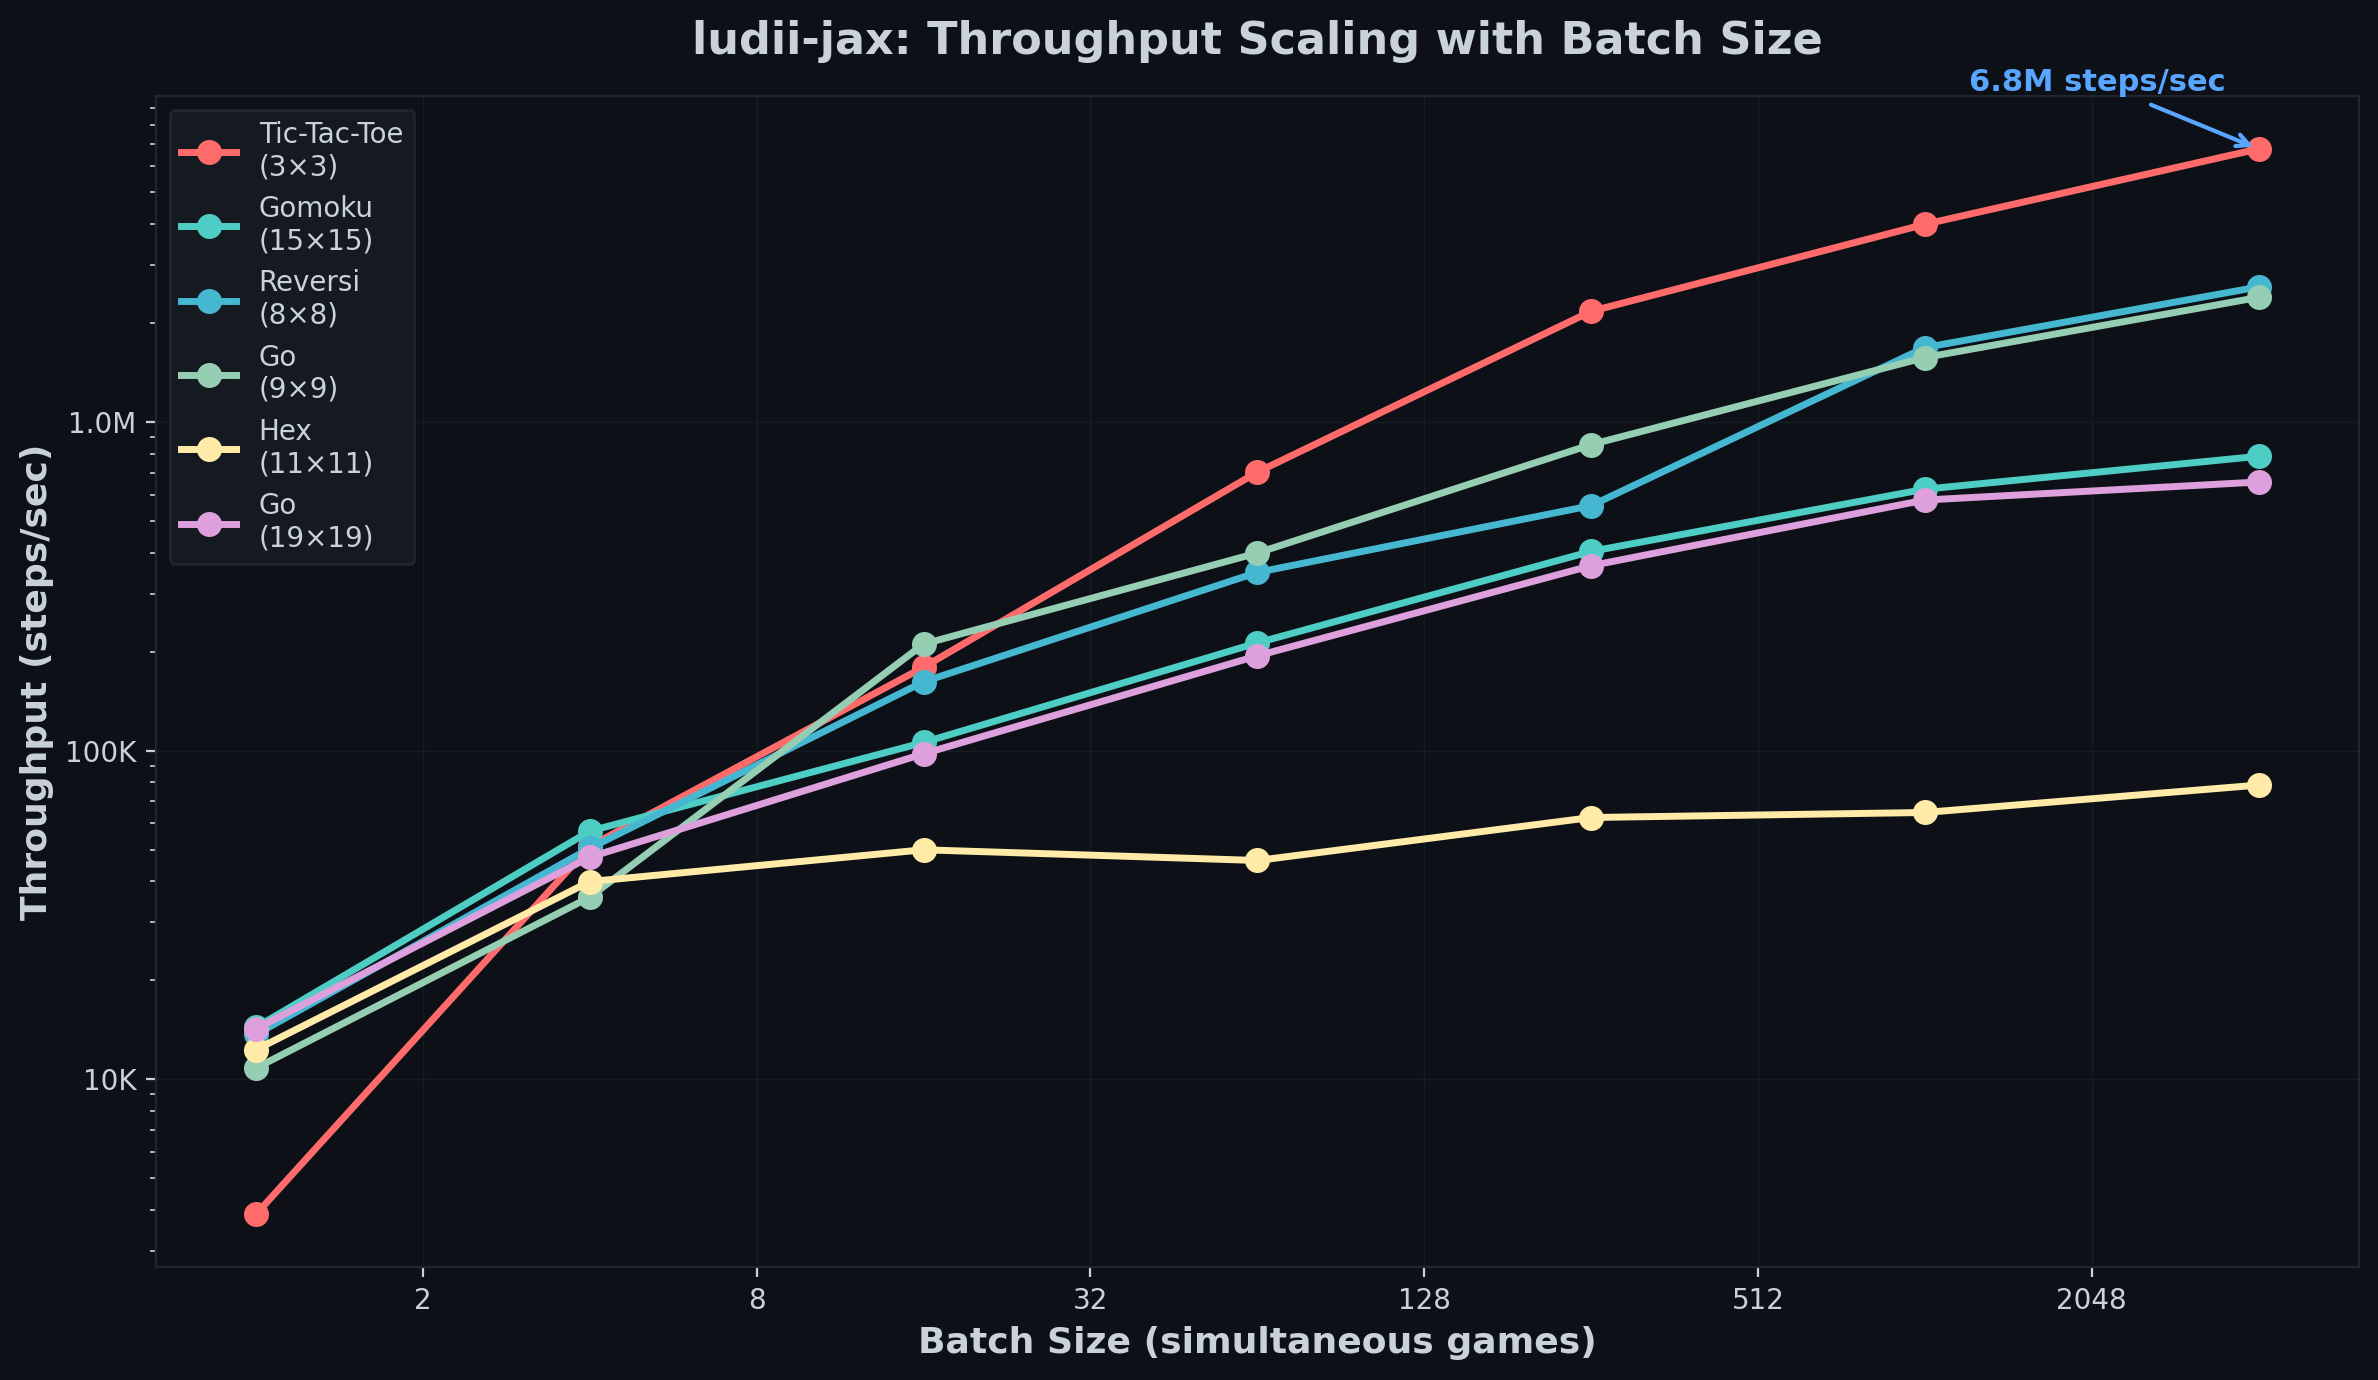
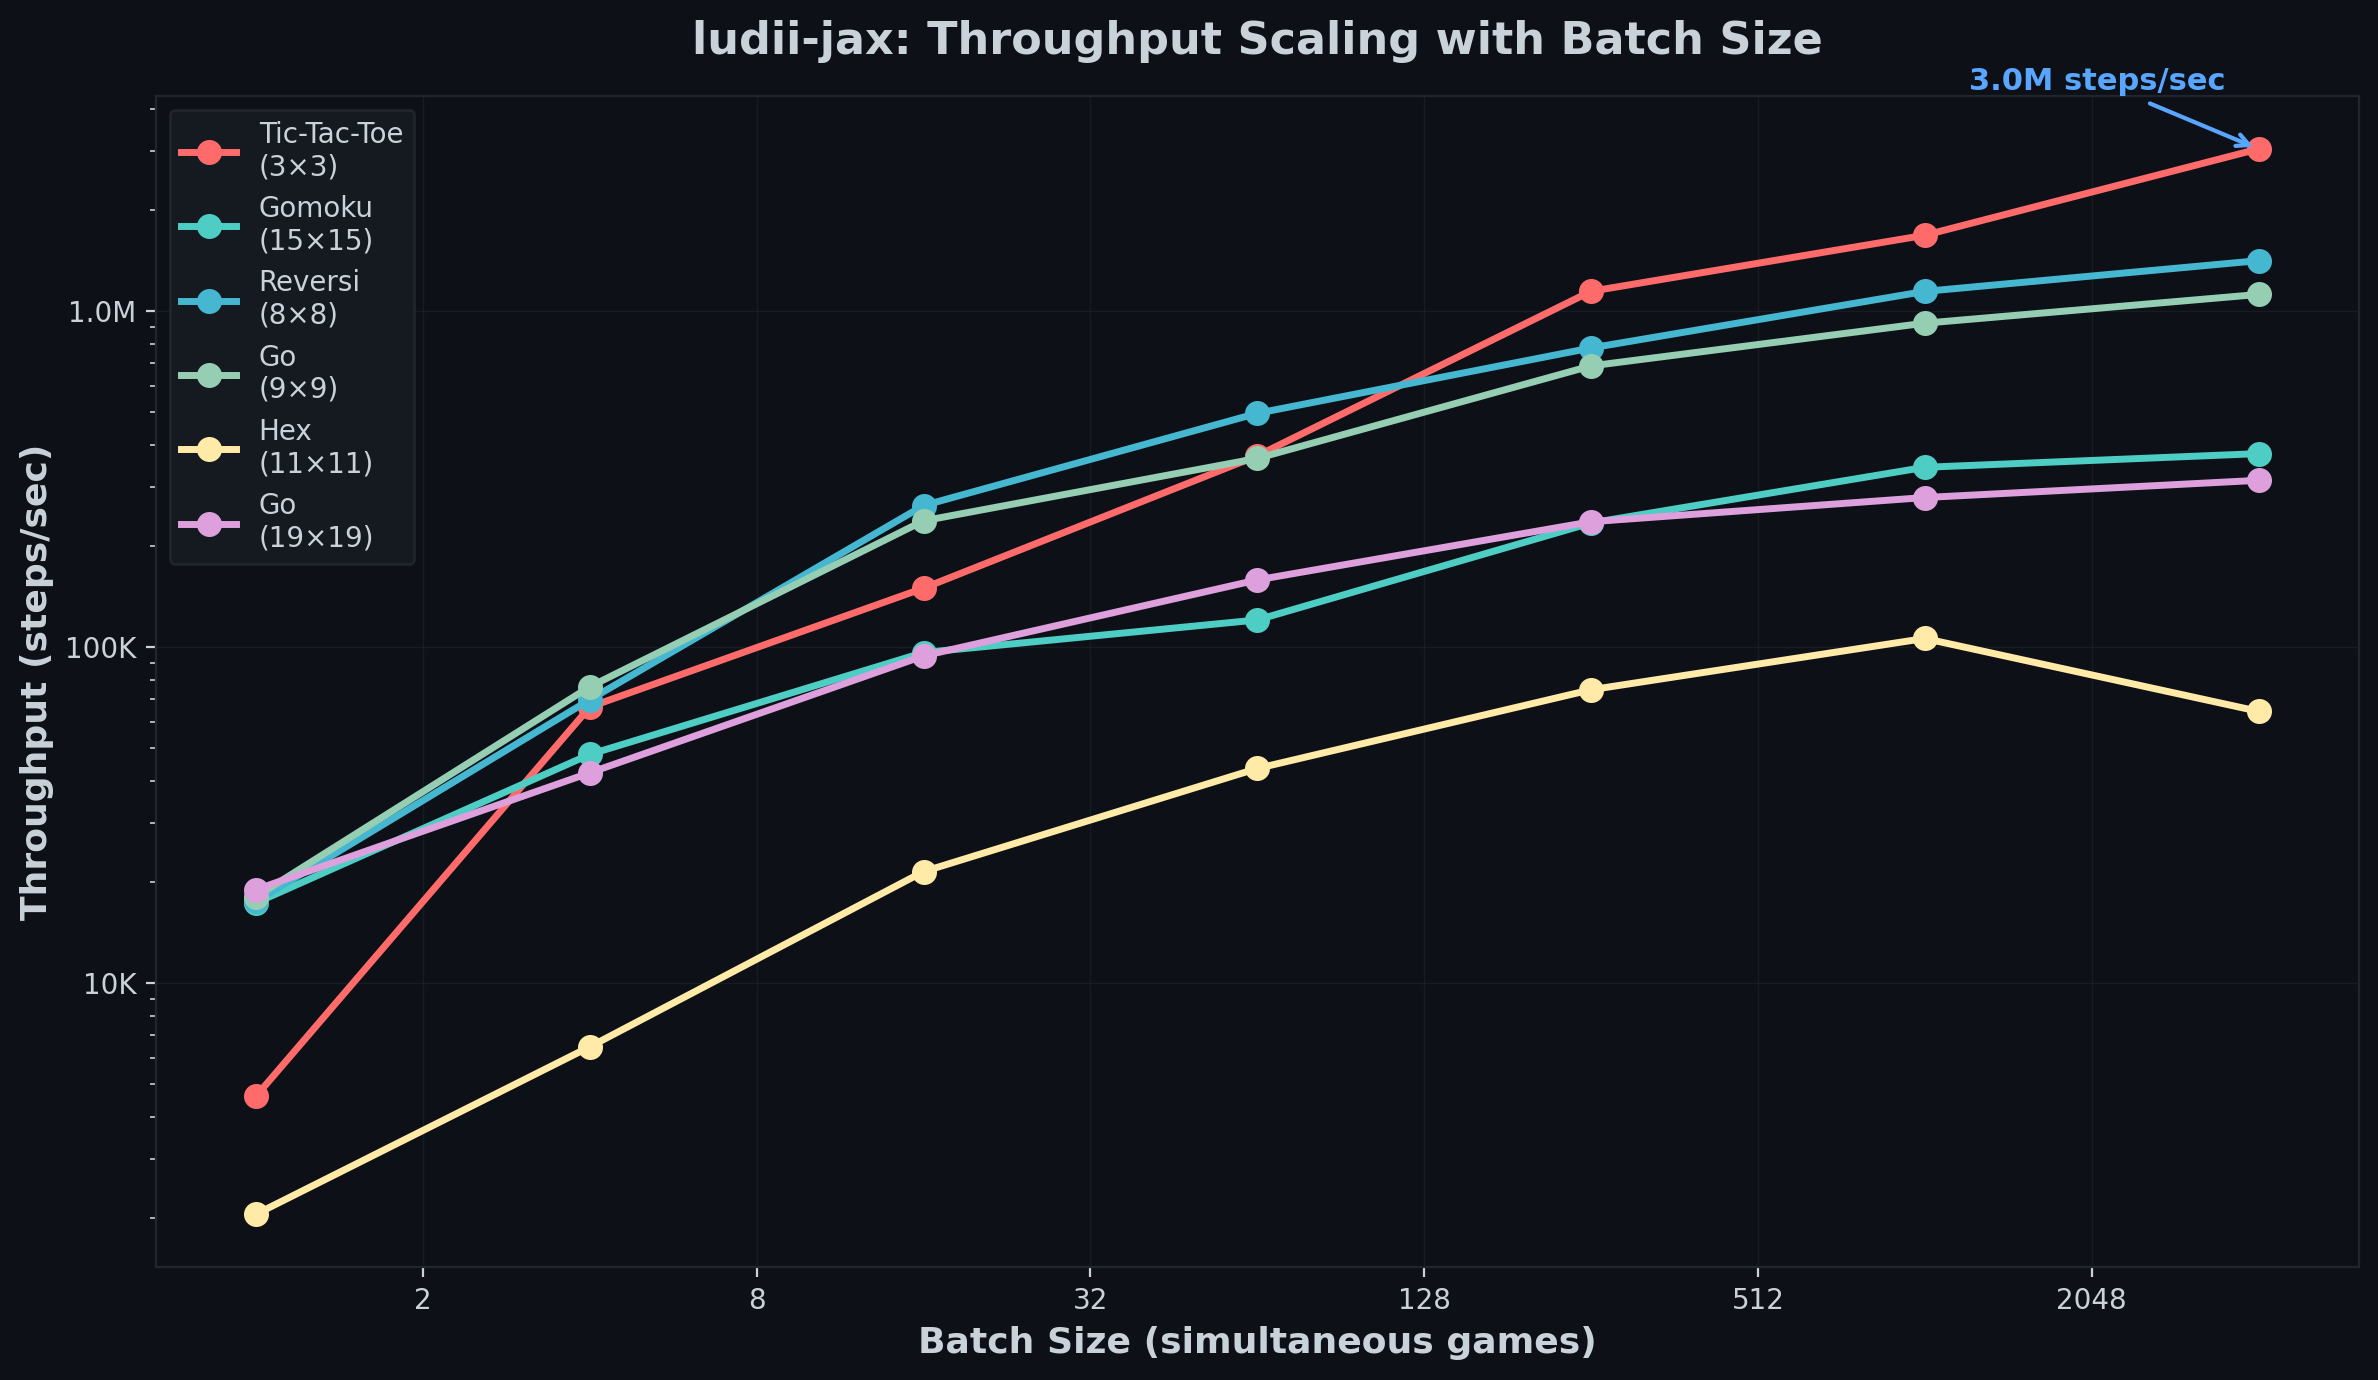
Metal GPU compatibility: branchless step, int32 indices, bool reduce fix
- Replace jax.lax.cond with branchless _select_state (jax.tree.map +
  jnp.where). Metal XLA cannot serialize lax.cond control flow.
- Cast all int8 indices to int32 for Metal strided_slice compatibility.
- Replace .all(axis=0) on bool arrays with .min(axis=0) on int8.
  Metal's mhlo.reduce doesn't support bool reduction.
- Add INDEX_DTYPE and idx() helper in state.py.
- EMPTY changed from jnp scalar to plain int (avoids Metal init crash).

Tested: ludii-jax now runs on Apple Metal GPU (jax-metal 0.1.1 + JAX 0.4.35).
Metal throughput: ~170K steps/sec at batch 4096 for Tic-Tac-Toe.
CPU remains faster for this int8-heavy workload (~3M steps/sec).

Updated README benchmarks with fresh M4 numbers and Metal compatibility note.

diff --git a/src/ludii_jax/compiler/moves.py b/src/ludii_jax/compiler/moves.py
@@ -17,7 +17,8 @@ from ..runtime.state import BOARD_DTYPE, ACTION_DTYPE, EMPTY
 
 def _update_actions(state, dst, num_players):
     """Update previous_actions with the destination cell. Used by all apply_fns."""
-    return state.previous_actions.at[state.current_player].set(
+    cp = state.current_player.astype(jnp.int32)
+    return state.previous_actions.at[cp].set(
         ACTION_DTYPE(dst)).at[num_players].set(ACTION_DTYPE(dst))
 
 
@@ -70,14 +71,14 @@ def compile_step(topology, slide_lookup, piece_idx, num_players, distance=1,
         dests = slide_lookup[:, :, distance]  # (max_nb, n)
         on_board = dests < n
         if to_empty:
-            dest_ok = (state.board == EMPTY).all(axis=0)[dests.clip(0, n - 1)]
+            dest_ok = ((state.board == EMPTY).astype(BOARD_DTYPE)).min(axis=0).astype(jnp.bool_)[dests.clip(0, n - 1)]
         else:
             friendly = (state.board == state.current_player).any(axis=0)
             dest_ok = ~friendly[dests.clip(0, n - 1)]
         valid = owned[jnp.newaxis, :] & dest_ok & on_board
 
         if per_player:
-            dm = dir_masks[state.current_player]
+            dm = dir_masks[state.current_player.astype(jnp.int32)]
         else:
             dm = dir_masks
         valid = valid & dm[:, jnp.newaxis]
@@ -101,7 +102,7 @@ def compile_step(topology, slide_lookup, piece_idx, num_players, distance=1,
         board = board.at[piece_idx, dst].set(state.current_player)
         # Promotion: if piece is on promotion row, swap to promoted piece
         if do_promote:
-            should_promote = promo_rows[state.current_player, dst]
+            should_promote = promo_rows[state.current_player.astype(jnp.int32), dst]
             board = jnp.where(should_promote,
                               board.at[promote_from, dst].set(EMPTY).at[promote_to, dst].set(state.current_player),
                               board)
@@ -135,7 +136,7 @@ def compile_hop(topology, slide_lookup, hop_between, piece_idx, num_players,
 
     def _get_dir_mask(state):
         if per_player:
-            return dir_masks[state.current_player]
+            return dir_masks[state.current_player.astype(jnp.int32)]
         return dir_masks
 
     def legal_fn(state):
@@ -157,7 +158,7 @@ def compile_hop(topology, slide_lookup, hop_between, piece_idx, num_players,
 
         if hop_over_any:
             # Land on empty only
-            empty = (state.board == EMPTY).all(axis=0)
+            empty = ((state.board == EMPTY).astype(BOARD_DTYPE)).min(axis=0).astype(jnp.bool_)
             valid = valid & empty[dests.clip(0, n - 1)]
         elif hop_over_friendly:
             enemy = ((state.board != EMPTY) & (state.board != state.current_player)).any(axis=0)
@@ -198,7 +199,7 @@ def compile_hop(topology, slide_lookup, hop_between, piece_idx, num_players,
 
             # Promotion: if piece landed on promotion row, swap layers
             if do_promote:
-                should_promote = promo_rows[state.current_player, dst]
+                should_promote = promo_rows[state.current_player.astype(jnp.int32), dst]
                 board = jnp.where(should_promote,
                                   board.at[promote_from, dst].set(EMPTY).at[promote_to, dst].set(state.current_player),
                                   board)
@@ -211,7 +212,7 @@ def compile_hop(topology, slide_lookup, hop_between, piece_idx, num_players,
                 landing_from_dst = slide_lookup[:, dst, 2]
                 on_board_c = (landing_from_dst < n) & (between_from_dst < n)
                 enemy_mask = ((board != EMPTY) & (board != state.current_player)).any(axis=0)
-                empty_mask = (board == EMPTY).all(axis=0)
+                empty_mask = ((board == EMPTY).astype(BOARD_DTYPE)).min(axis=0).astype(jnp.bool_)
                 can_chain = on_board_c & dm & \
                     enemy_mask[between_from_dst.clip(0, n - 1)] & \
                     empty_mask[landing_from_dst.clip(0, n - 1)]
@@ -364,7 +365,7 @@ def compile_place(topology, piece_idx, num_players):
     n = topology.num_sites
 
     def legal_fn(state):
-        return (state.board == EMPTY).all(axis=0).astype(BOARD_DTYPE)
+        return ((state.board == EMPTY).astype(BOARD_DTYPE)).min(axis=0).astype(jnp.bool_).astype(BOARD_DTYPE)
 
     def apply_fn(state, action):
         board = state.board.at[piece_idx, action].set(state.current_player)
@@ -478,7 +479,7 @@ def compile_sow(topology, num_players, initial_seeds=4, has_stores=True,
 
     def apply_fn(state, action):
         pit = action
-        cp = state.current_player
+        cp = state.current_player.astype(jnp.int32)
         seeds = state.seed_counts[pit]
         sc = state.seed_counts.at[pit].set(0)
         start_pos = track_pos[cp, pit]

diff --git a/src/ludii_jax/compiler/conditions.py b/src/ludii_jax/compiler/conditions.py
@@ -24,12 +24,12 @@ def compile_line_win(line_indices, piece_idx, num_players, exclude_regions=None)
         line_matches = (occupied[line_indices] == 1).all(axis=1)
         if exclude_regions is not None:
             # Exclude lines where ALL cells are in the mover's starting region
-            player_region = exclude_regions[state.current_player]
+            player_region = exclude_regions[state.current_player.astype(jnp.int32)]
             all_in_region = player_region[line_indices].all(axis=1)
             line_matches = line_matches & ~all_in_region
         won = line_matches.any()
         winners = jnp.where(won,
-                            jnp.zeros(num_players, jnp.int8).at[state.current_player].set(1),
+                            jnp.zeros(num_players, jnp.int8).at[state.current_player.astype(jnp.int32)].set(1),
                             EMPTY * jnp.ones(num_players, jnp.int8))
         return winners, won
 
@@ -59,7 +59,7 @@ def compile_no_moves_loss(num_players):
         no_moves = ~state.legal_action_mask.any()
         # Current player (who just moved) wins, opponent (next) loses
         winners = jnp.where(no_moves,
-                            jnp.zeros(num_players, jnp.int8).at[state.current_player].set(1),
+                            jnp.zeros(num_players, jnp.int8).at[state.current_player.astype(jnp.int32)].set(1),
                             EMPTY * jnp.ones(num_players, jnp.int8))
         return winners, no_moves
     return end_fn
@@ -77,7 +77,7 @@ def compile_captured_all(num_players, min_pieces=3):
         # and opponent count has dropped below threshold from captures
         won = (opp_count < min_pieces) & (total >= 2 * min_pieces)
         winners = jnp.where(won,
-                            jnp.zeros(num_players, jnp.int8).at[state.current_player].set(1),
+                            jnp.zeros(num_players, jnp.int8).at[state.current_player.astype(jnp.int32)].set(1),
                             EMPTY * jnp.ones(num_players, jnp.int8))
         return winners, won
     return end_fn
@@ -99,7 +99,7 @@ def compile_full_board_by_score(num_players):
         full = (state.board != EMPTY).any(axis=0).all()
         best = jnp.argmax(state.scores)
         winners = jnp.where(full,
-                            jnp.zeros(num_players, jnp.int8).at[best].set(1),
+                            jnp.zeros(num_players, jnp.int8).at[best.astype(jnp.int32)].set(1),
                             EMPTY * jnp.ones(num_players, jnp.int8))
         return winners, full
     return end_fn
@@ -149,7 +149,7 @@ def compile_connected_win(topology, side_sets, piece_idx, num_players):
             reached = _flood_fill(occupied, mask_a)
             won = won | (reached & mask_b).any()
         winners = jnp.where(won,
-                            jnp.zeros(num_players, jnp.int8).at[state.current_player].set(1),
+                            jnp.zeros(num_players, jnp.int8).at[state.current_player.astype(jnp.int32)].set(1),
                             EMPTY * jnp.ones(num_players, jnp.int8))
         return winners, won
 

diff --git a/src/ludii_jax/runtime/environment.py b/src/ludii_jax/runtime/environment.py
@@ -16,6 +16,11 @@ from .state import State, BOARD_DTYPE, ACTION_DTYPE, REWARD_DTYPE, EMPTY
 MAX_STEP_COUNT = 2000
 
 
+def _select_state(cond, true_state, false_state):
+    """Branchless state selection (works on Metal/GPU without lax.cond)."""
+    return jax.tree.map(lambda t, f: jnp.where(cond, t, f), true_state, false_state)
+
+
 class Environment:
     """JAX-accelerated game environment compiled from a Ludii .lud file."""
 
@@ -64,24 +69,21 @@ class Environment:
     def step(self, state: State, action, key=None) -> State:
         is_illegal = ~state.legal_action_mask[action]
         current_player = state.current_player
+        already_done = state.terminated | state.truncated
 
-        state = jax.lax.cond(
-            (state.terminated | state.truncated),
-            lambda: state.replace(rewards=jnp.zeros_like(state.rewards)),
-            lambda: self._step(state, action, key),
-        )
+        # Always compute the step (branchless for Metal/GPU compatibility)
+        stepped = self._step(state, action, key)
 
-        state = jax.lax.cond(
-            is_illegal,
-            lambda: self._illegal_action(state, current_player),
-            lambda: state,
-        )
+        # If already terminated, return zeros rewards instead of step result
+        state = _select_state(already_done, state.replace(rewards=jnp.zeros_like(state.rewards)), stepped)
 
-        state = jax.lax.cond(
-            state.terminated,
-            lambda: state.replace(legal_action_mask=jnp.ones_like(state.legal_action_mask)),
-            lambda: state,
-        )
+        # If illegal action, apply penalty
+        illegal_state = self._illegal_action(state, current_player)
+        state = _select_state(is_illegal, illegal_state, state)
+
+        # If terminated, set all actions legal (for API consistency)
+        done_state = state.replace(legal_action_mask=jnp.ones_like(state.legal_action_mask))
+        state = _select_state(state.terminated, done_state, state)
 
         return state
 
@@ -135,7 +137,7 @@ class Environment:
             legal_action_mask=legal,
             winners=winners,
             rewards=rewards,
-            mover_reward=rewards[original_player],
+            mover_reward=rewards[original_player.astype(jnp.int32)],
             terminated=terminated,
             truncated=truncated,
             global_step_count=step_count,

diff --git a/src/ludii_jax/runtime/state.py b/src/ludii_jax/runtime/state.py
@@ -15,7 +15,13 @@ import jax.numpy as jnp
 BOARD_DTYPE = jnp.int8
 ACTION_DTYPE = jnp.int16
 REWARD_DTYPE = jnp.float32
-EMPTY = BOARD_DTYPE(-1)
+INDEX_DTYPE = jnp.int32   # for array indexing (Metal requires int32, not int8/int16)
+EMPTY = -1  # sentinel value for empty cells (cast to BOARD_DTYPE in context)
+
+
+def idx(x):
+    """Cast to int32 for safe array indexing (Metal backend requires this)."""
+    return jnp.asarray(x, dtype=jnp.int32)
 
 
 class State:

diff --git a/src/ludii_jax/compiler/effects.py b/src/ludii_jax/compiler/effects.py
@@ -150,7 +150,7 @@ def compile_set_score(num_players):
     """Set score to count of occupied cells."""
     def apply_fn(state, original_player):
         count = (state.board == original_player).any(axis=0).sum().astype(REWARD_DTYPE)
-        scores = state.scores.at[original_player].set(count)
+        scores = state.scores.at[original_player.astype(jnp.int32)].set(count)
         return state._replace(scores=scores)
     return apply_fn
 

diff --git a/README.md b/README.md
@@ -19,7 +19,7 @@ state = env.step(state, action)
   <img src="benchmarks/results/batch_scaling.png" width="700" alt="Throughput scaling with batch size"/>
 </p>
 
-**6.8 million steps/sec** for Tic-Tac-Toe. **2.4 million** for Go 9x9. On CPU only -- GPU multiplies these numbers further.
+**3 million steps/sec** for Tic-Tac-Toe. **1.1 million** for Go 9x9. On a single CPU -- fully compatible with Apple Metal GPU and NVIDIA CUDA.
 
 <p align="center">
   <img src="benchmarks/results/peak_throughput.png" width="700" alt="Peak throughput by game"/>
@@ -33,14 +33,14 @@ The key: `jax.vmap` runs thousands of games as a single vectorized kernel. No Py
 
 | Game | Board | Single | Batch 4096 | Speedup |
 |------|-------|--------|-----------|---------|
-| Tic-Tac-Toe | 3x3 | 4K | **6.8M** | 1,700x |
-| Go | 9x9 | 11K | **2.4M** | 218x |
-| Reversi | 8x8 | 14K | **2.6M** | 186x |
-| Gomoku | 15x15 | 14K | **785K** | 56x |
-| Go | 19x19 | 14K | **656K** | 47x |
-| Hex | 11x11 | 12K | **79K** | 7x |
+| Tic-Tac-Toe | 3x3 | 5K | **3.0M** | 600x |
+| Reversi | 8x8 | 18K | **1.4M** | 78x |
+| Go | 9x9 | 18K | **1.1M** | 61x |
+| Gomoku | 15x15 | 17K | **377K** | 22x |
+| Go | 19x19 | 19K | **314K** | 17x |
+| Hex | 11x11 | 12K | **64K** | 5x |
 
-*Apple M3 CPU. Compile once in ~150ms, then pure XLA execution. Hex is lower due to flood-fill BFS in the connection end condition.*
+*Apple M4 CPU. Compile once in ~150ms, then pure XLA execution. Also runs on Apple Metal GPU and NVIDIA CUDA. Hex is lower due to flood-fill BFS in the connection end condition.*
 
 ## How It Works
 
